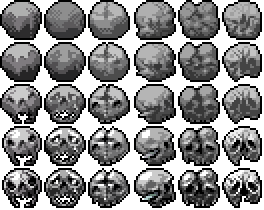
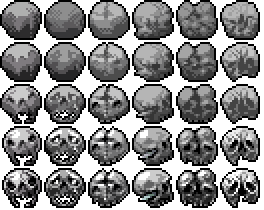
big soulstone progress

diff --git a/Content/JewelryMechanic/Misc/SoulstonePlayer.cs b/Content/JewelryMechanic/Misc/SoulstonePlayer.cs
@@ -1,24 +1,105 @@
 using PeculiarJewelry.Content.JewelryMechanic.Stats;
+using PeculiarJewelry.Content.JewelryMechanic.Stats.JewelInfos.Rares;
 using System.Collections.Generic;
 
 namespace PeculiarJewelry.Content.JewelryMechanic.Misc;
 
 internal class SoulstonePlayer : ModPlayer
 {
-    public readonly Dictionary<StatType, float> StrengthPerSoulstone = new() { { StatType.SoulAgony, 0 }, { StatType.SoulGrief, 0 }, { StatType.SoulBetrayal, 0 },
-        { StatType.SoulPlague, 0 }, { StatType.SoulTorture, 0 }, { StatType.SoulSacrifice, 0 } };
-
-    public override void ResetEffects()
+    public class ActiveSoulstone
     {
-        foreach (var key in StrengthPerSoulstone.Keys)
-            StrengthPerSoulstone[key] = 0;
+        public bool HasProjectile => ProjWho != -1;
+
+        public int ProjWho = -1;
     }
+
+    public class SoulstoneInfo
+    {
+        public float TotalStrength = 0;
+        public JewelTier MaxTier = JewelTier.Natural;
+        public MajorSoulstoneInfo.ClassEnum Class = MajorSoulstoneInfo.ClassEnum.Melee;
+        public List<ActiveSoulstone> Soulstones = [];
+        public List<ActiveSoulstone> LastFrameSoulstones = [];
+
+        public void Reset()
+        {
+            TotalStrength = 0;
+            MaxTier = JewelTier.Natural;
+            Class = MajorSoulstoneInfo.ClassEnum.Melee;
+
+            foreach (var soulstone in Soulstones)
+            {
+                Main.NewText(soulstone.GetHashCode());
+
+                if (!soulstone.HasProjectile)
+                    continue;
+
+                Projectile projectile = Main.projectile[soulstone.ProjWho];
+
+                if (!projectile.active || projectile.type != ModContent.ProjectileType<SoulstoneWisp>())
+                {
+                    soulstone.ProjWho = -1;
+                }
+            }
+
+            // Clear all items that weren't re-buffed
+            foreach (var item in LastFrameSoulstones)
+            {
+                if (!Soulstones.Contains(item))
+                {
+                    if (item.HasProjectile)
+                    {
+                        Main.projectile[item.ProjWho].active = false;
+                        item.ProjWho = -1;
+                    }
+                }
+            }
+
+            LastFrameSoulstones.Clear();
+
+            // Add all items that were added to LastFrame, for the above functionality
+            foreach (var item in Soulstones)
+                LastFrameSoulstones.Add(item);
+
+            Soulstones.Clear();
+        }
+
+        public override string ToString() => $"STR: {TotalStrength} - INST. COUNT: {Soulstones.Count} - TIER: {MaxTier} - CLASS: {Class}";
+    }
+
+    public readonly Dictionary<StatType, SoulstoneInfo> InfoByInfo = new() { { StatType.SoulAgony, new() }, { StatType.SoulGrief, new() }, { StatType.SoulBetrayal, new() },
+        { StatType.SoulPlague, new() }, { StatType.SoulTorture, new() }, { StatType.SoulSacrifice, new() } };
 
     public override void PostUpdateEquips()
     {
-        foreach (var key in StrengthPerSoulstone.Keys)
+        foreach (var key in InfoByInfo.Keys)
         {
+            SoulstoneInfo info = InfoByInfo[key];
 
+            if (info.TotalStrength == 0)
+                continue;
+
+            foreach (ActiveSoulstone stone in info.Soulstones)
+            {
+                if (stone.HasProjectile)
+                    continue;
+
+                if (Player.whoAmI == Main.myPlayer)
+                {
+                    Vector2 position;
+
+                    do
+                    {
+                        position = Player.Center + Main.rand.NextVector2CircularEdge(400, 400) * Main.rand.NextFloat(0.75f, 1f);
+                    } while (Collision.SolidCollision(position, 32, 32));
+
+                    int projType = ModContent.ProjectileType<SoulstoneWisp>();
+                    stone.ProjWho = Projectile.NewProjectile(Player.GetSource_FromThis(), position, Vector2.Zero, projType, 0, 0, Player.whoAmI, (float)info.Class);
+                }
+            }
         }
+
+        foreach (var key in InfoByInfo.Keys)
+            InfoByInfo[key].Reset();
     }
 }

diff --git a/Content/JewelryMechanic/Stats/JewelInfos/Rares/MajorSoulstoneInfo.cs b/Content/JewelryMechanic/Stats/JewelInfos/Rares/MajorSoulstoneInfo.cs
@@ -1,5 +1,8 @@
-using PeculiarJewelry.Content.JewelryMechanic.Stats.Stats;
+using PeculiarJewelry.Content.JewelryMechanic.Misc;
+using PeculiarJewelry.Content.JewelryMechanic.Stats.Effects.Custom.SoulstoneStats;
+using PeculiarJewelry.Content.JewelryMechanic.Stats.Stats;
 using System;
+using System.Collections.Generic;
 using Terraria.ModLoader.IO;
 
 namespace PeculiarJewelry.Content.JewelryMechanic.Stats.JewelInfos.Rares;
@@ -31,26 +34,55 @@ internal class MajorSoulstoneInfo : JewelInfo
     internal override void InternalSetup()
     {
         SubStats = [];
-        Major = new JewelStat((StatType)Main.rand.Next((int)StatType.SoulAgony, (int)StatType.SoulMax));
+        Major = new SoulstoneContainer((StatType)Main.rand.Next((int)StatType.SoulAgony, (int)StatType.SoulMax));
         ClassType = (ClassEnum)Main.rand.Next(5);
         ColorAdjustment = Main.rand.NextFloat(0.6f, 1);
     }
 
     internal override bool OverrideDisplayColor(out Color color)
     {
-        color = ClassType switch
-        {
-            ClassEnum.Melee => Color.Red,//Main.hslToRgb(206 / 255f, 1, ),
-            ClassEnum.Ranged => Color.Blue,//(new Color(79, 109, 255) * ColorAdjustment) with { A = 255 },
-            ClassEnum.Magic => Color.Yellow,// (new Color(255, 236, 48) * ColorAdjustment) with { A = 255 },
-            ClassEnum.Summoner => Color.Green,
-            ClassEnum.Generic => Color.White,
-            _ => throw new ArgumentException("ClassType exceeds the options for some reason. (MajorSoulstoneInfo OverrideDisplayColor)")
-        };
-
+        color = GetClassColor(ClassType, ColorAdjustment);
         return true;
     }
 
-    internal override void SaveData(TagCompound tag) => tag.Add("class", (byte)ClassType);
-    internal override void LoadData(TagCompound tag) => ClassType = (ClassEnum)tag.GetByte("class");
+    public static Color GetClassColor(ClassEnum classType, float adjustment) => classType switch
+    {
+        ClassEnum.Melee => Color.Lerp(Color.Red, Color.IndianRed, adjustment),
+        ClassEnum.Ranged => Color.Lerp(Color.CadetBlue, Color.DarkSlateBlue, adjustment),
+        ClassEnum.Magic => Color.Lerp(Color.Yellow, Color.DarkOrange, adjustment),
+        ClassEnum.Summoner => Color.Lerp(Color.Green, Color.DarkOliveGreen, adjustment),
+        ClassEnum.Generic => Color.Lerp(Color.White, Color.DarkSlateGray, adjustment),
+        _ => throw new ArgumentException("ClassType exceeds the options for some reason. (MajorSoulstoneInfo OverrideDisplayColor)")
+    };
+
+    protected override void PreApplyTo(Player player, float add, ref float mult)
+    {
+        // Set per-jewel info, no need to unset
+        player.GetModPlayer<SoulstonePlayer>().InfoByInfo[Major.Type].MaxTier = tier;
+        player.GetModPlayer<SoulstonePlayer>().InfoByInfo[Major.Type].Class = ClassType;
+    }
+
+    internal override void PostAddStatTooltips(List<TooltipLine> tooltips, ModItem modItem, bool displayAsJewel)
+    {
+        string text = $"Ghosts count as [c/{GetClassColor(ClassType, ColorAdjustment).Hex3()}:{ClassType.ToString().ToLower()} damage]";
+        tooltips.Add(new TooltipLine(ModContent.GetInstance<PeculiarJewelry>(), "ClassType", text) { OverrideColor = new(93, 93, 93) });
+    }
+
+    internal override void SaveData(TagCompound tag)
+    {
+        tag.Add("class", (byte)ClassType);
+        tag.Add("color", ColorAdjustment);
+        tag.Add("soul", (byte)Major.Get().Type);
+    }
+
+    internal override void LoadData(TagCompound tag)
+    {
+        ClassType = (ClassEnum)tag.GetByte("class");
+        ColorAdjustment = tag.GetFloat("color");
+
+        byte soul = tag.GetByte("soul");
+
+        if (soul != 0)
+            Major = new SoulstoneContainer((StatType)soul);
+    }
 }

diff --git a/Content/JewelryMechanic/Misc/SoulstoneWisp.cs b/Content/JewelryMechanic/Misc/SoulstoneWisp.cs
@@ -1,11 +1,13 @@
-namespace PeculiarJewelry.Content.JewelryMechanic.Misc;
+using PeculiarJewelry.Content.JewelryMechanic.Stats.JewelInfos.Rares;
+using System;
+
+namespace PeculiarJewelry.Content.JewelryMechanic.Misc;
 
 internal class SoulstoneWisp : ModProjectile
 {
-    public override void SetStaticDefaults()
-    {
-        Main.projFrames[Type] = 9;
-    }
+    public MajorSoulstoneInfo.ClassEnum Class => (MajorSoulstoneInfo.ClassEnum)Projectile.ai[0];
+
+    public override void SetStaticDefaults() => Main.projFrames[Type] = 9;
 
     public override void SetDefaults()
     {
@@ -18,14 +20,29 @@ internal class SoulstoneWisp : ModProjectile
         Projectile.frameCounter++;
         Projectile.timeLeft++;
 
+        if (Projectile.velocity.LengthSquared() < 0.2f * 0.2f)
+        {
+            Projectile.velocity = new Vector2(0.2f, 0).RotatedByRandom(MathHelper.TwoPi);
+            Projectile.netUpdate = true;
+        }
+        else
+        {
+            Projectile.velocity = Projectile.velocity.RotatedBy(0.02f);
+        }
+
         if (Projectile.frameCounter < 25)
             Projectile.frame = Projectile.frameCounter / 4;
         else
             Projectile.frame = (int)(Projectile.frameCounter / 4f % 4) + 5;
 
-        if (Projectile.Hitbox.Intersects(Main.player[Projectile.owner].Hitbox))
-        {
+        Player player = Main.player[Projectile.owner];
+
+        if (Projectile.Hitbox.Intersects(player.Hitbox))
             Projectile.active = false;
-        }
+
+        if (player.DistanceSQ(Projectile.Center) > 1000 * 1000)
+            Projectile.active = false;
     }
+
+    public override Color? GetAlpha(Color lightColor) => MajorSoulstoneInfo.GetClassColor(Class, MathF.Sin(Projectile.frameCounter * 0.2f) * 0.4f + 0.6f);
 }

diff --git a/Content/JewelryMechanic/Stats/Stats/SoulstoneContainer.cs b/Content/JewelryMechanic/Stats/Stats/SoulstoneContainer.cs
@@ -1,0 +1,30 @@
+using PeculiarJewelry.Content.JewelryMechanic.Misc;
+using PeculiarJewelry.Content.JewelryMechanic.Stats.Effects;
+using PeculiarJewelry.Content.JewelryMechanic.Stats.Effects.Custom.SoulstoneStats;
+using System;
+
+namespace PeculiarJewelry.Content.JewelryMechanic.Stats.Stats;
+
+internal class SoulstoneContainer(StatType category) : JewelStat(category)
+{
+    private readonly SoulstonePlayer.ActiveSoulstone activeSoulstone = new();
+
+    private readonly SoulstoneStat stat = category switch
+    {
+        StatType.SoulAgony => new AgonyStat(),
+        StatType.SoulGrief => new GriefStat(),
+        StatType.SoulPlague => new PlagueStat(),
+        StatType.SoulBetrayal => new BetrayalStat(),
+        StatType.SoulSacrifice => new SacrificeStat(),
+        StatType.SoulTorture => new TortureStat(),
+        _ => throw new ArgumentException("SoulstoneStat's Type is not a Soul stat type."),
+    };
+
+    public override void Apply(Player player, float add = 0, float multiplier = 0)
+    {
+        base.Apply(player, add, multiplier);
+        player.GetModPlayer<SoulstonePlayer>().InfoByInfo[Type].Soulstones.Add(activeSoulstone);
+    }
+
+    public override JewelStatEffect Get() => stat;
+}

diff --git a/Content/JewelryMechanic/Stats/Effects/Custom/SoulstoneStats/SoulstoneStat.cs b/Content/JewelryMechanic/Stats/Effects/Custom/SoulstoneStats/SoulstoneStat.cs
@@ -7,7 +7,14 @@ internal abstract class SoulstoneStat : JewelStatEffect
 {
     public override Color Color => new(93, 93, 93);
 
-    public override void Apply(Player player, float strength) => player.GetModPlayer<SoulstonePlayer>().StrengthPerSoulstone[Type] += (int)GetEffectBonus(player, strength);
+    public SoulstoneStat()
+    {
+        Description = Language.GetText("Mods.PeculiarJewelry.Jewelry.StatTypes." + Type + ".Description");
+        DisplayName = Language.GetText("Mods.PeculiarJewelry.Jewelry.StatTypes." + Type + ".DisplayName");
+    }
+
+    public override void Apply(Player player, float strength) => player.GetModPlayer<SoulstonePlayer>().InfoByInfo[Type].TotalStrength += GetEffectBonus(player, strength);
+
     protected override float InternalEffectBonus(float multiplier, Player player)
     {
         JewelryStatConfig config = ModContent.GetInstance<JewelryStatConfig>();
@@ -23,4 +30,6 @@ internal abstract class SoulstoneStat : JewelStatEffect
             _ => throw new ArgumentException("SoulstoneStat's Type is not a Soul stat type."),
         };
     }
+
+    internal override string GetDescription(Player player, string stars, float str, bool negative = false) => Description.Value;
 }

diff --git a/Content/Items/Jewels/Rares/Soulstone/MajorSoulstone.cs b/Content/Items/Jewels/Rares/Soulstone/MajorSoulstone.cs
@@ -1,3 +1,4 @@
+using PeculiarJewelry.Content.JewelryMechanic.Stats;
 using PeculiarJewelry.Content.JewelryMechanic.Stats.JewelInfos.Rares;
 using System;
 
@@ -20,7 +21,18 @@ public class MajorSoulstone : Jewel
     public override bool PreDrawJewel(Texture2D texture, Vector2 position, Rectangle frame, Color color, float rotation, Vector2 origin, float scale, bool inInventory)
     {
         var col = inInventory ? Color.White : Lighting.GetColor((position + Main.screenPosition).ToTileCoordinates());
-        Main.spriteBatch.Draw(texture, position, frame, col, rotation, origin, scale, SpriteEffects.None, 0);
+        int id = (info as MajorSoulstoneInfo).Major.Type switch
+        {
+            StatType.SoulAgony => 0,
+            StatType.SoulGrief => 1,
+            StatType.SoulSacrifice => 2,
+            StatType.SoulBetrayal => 3,
+            StatType.SoulPlague => 4,
+            StatType.SoulTorture => 5,
+            _ => throw null,
+        };
+
+        Main.spriteBatch.Draw(texture, position, frame with { X = id * 44, Y = 168 }, col, rotation, origin, scale, SpriteEffects.None, 0);
         return false;
     }
 }

diff --git a/Content/JewelryMechanic/Stats/JewelInfos/Rares/PureAmberInfo.cs b/Content/JewelryMechanic/Stats/JewelInfos/Rares/PureAmberInfo.cs
@@ -19,8 +19,7 @@ internal class PureAmberInfo : JewelInfo
     {
         get
         {
-            string of = Language.GetTextValue("Mods.PeculiarJewelry.Jewels.Of");
-            string text = $"{Jewel.Localize("Jewels.Prefixes." + Prefix)} {tier.Localize()} {Jewel.Localize("Jewels.Titles." + JewelTitle)}{of}{GetAmberStatName()}";
+            string text = $"{Jewel.Localize("Jewels.Prefixes." + Prefix)} {tier.Localize()} {Jewel.Localize("Jewels.Titles." + JewelTitle)}";
 
             if (Major.Strength > 1)
                 text += $" +{successfulCuts}";
@@ -28,8 +27,6 @@ internal class PureAmberInfo : JewelInfo
             return text;
         }
     }
-
-    private string GetAmberStatName() => Lang.GetItemNameValue((Major as AmberStatContainer).stat.accessory.type);
 
     public override void RollSubstats() { }
 
